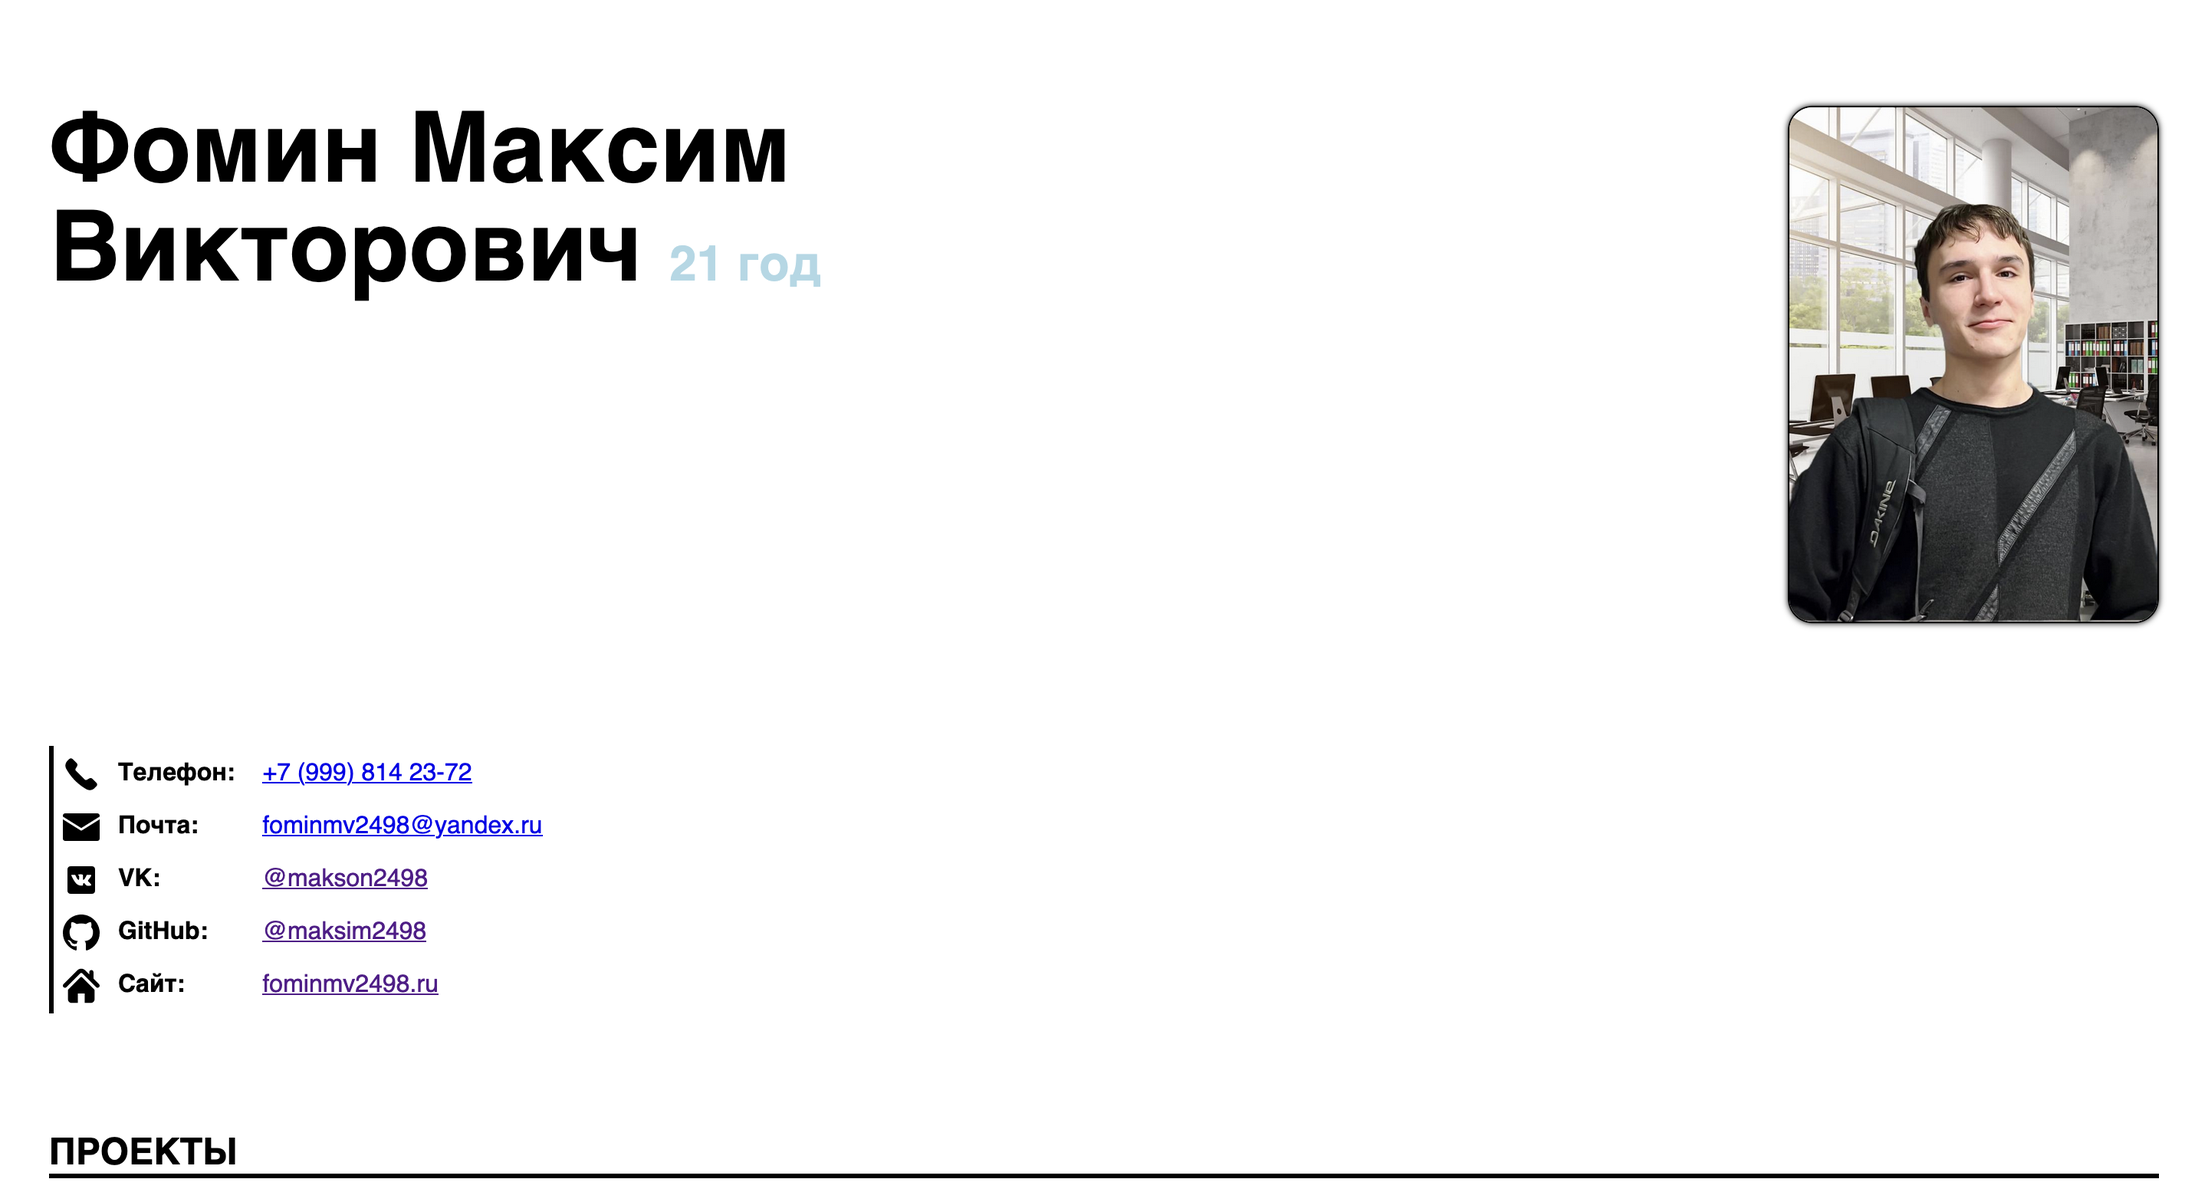
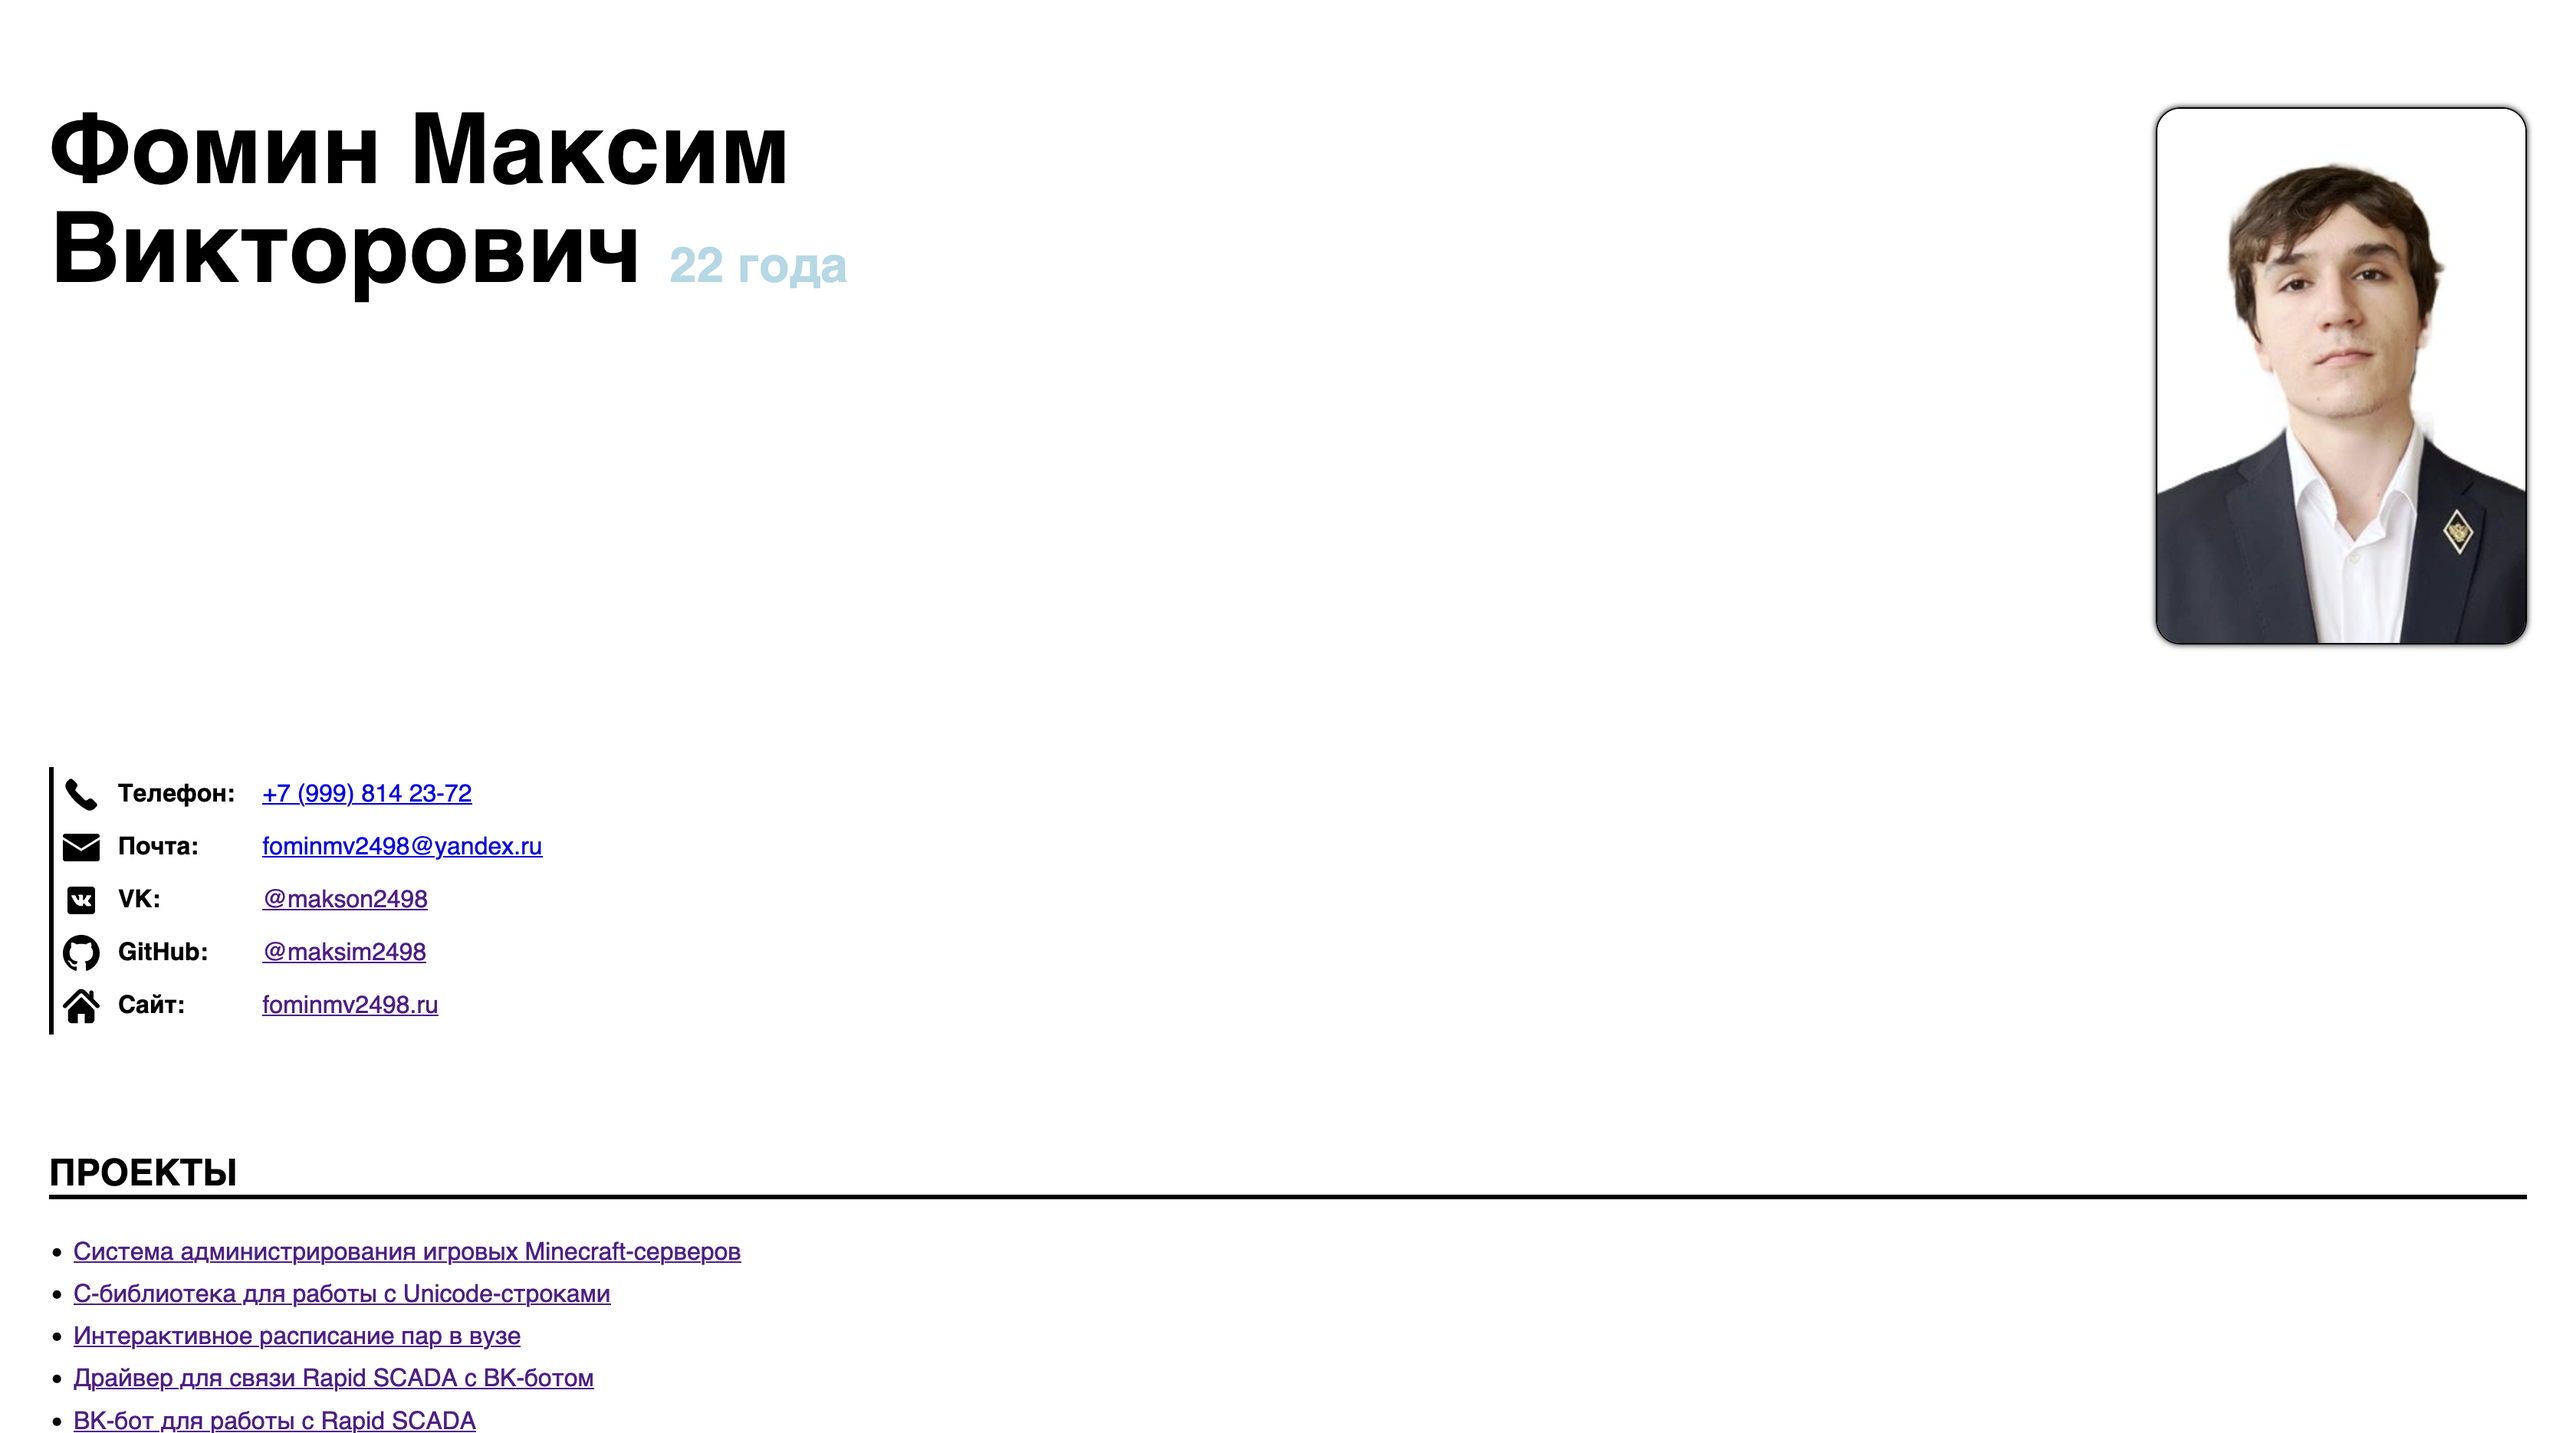
Updated info

Changed region(s): [[0.0, 0.5312, 0.9688, 1.0], [0.7812, 0.0625, 1.0, 0.5312], [0.0, 0.0625, 0.375, 0.25]]

diff --git a/src/body.html b/src/body.html
@@ -1,12 +1,15 @@
 <main>
     <section class="main">
         <h1>Фомин Максим <br> Викторович <span class="age"><span id="age-value"></span> <span id="age-plural"></span></h1>
+
         <div class="my-photo-container">
             <img src="images/me.jpeg" alt="Фотография Фомина Максима Викторовича" class="my-photo">
         </div>
     </section>
+
     <section class="contacts">
         <h2>Контакты</h2>
+
         <table class="contact-list">
             <tbody>
                 <tr class="tel">
@@ -32,16 +35,22 @@
             </tbody>
         </table>
     </section>
+
     <section>
         <h2>Проекты</h2>
+
         <ul>
-            <li><a href="https://moontalk.space" target="_blank">Система администрирования игровых Minecraft-серверов (активный)</a></li>
+            <li><a href="https://moontalk.space" target="_blank">Система администрирования игровых Minecraft-серверов</a></li>
             <li><a href="https://github.com/Maksim2498/ustr" target="_blank">C-библиотека для работы с Unicode-строками</a></li>
             <li><a href="http://sched.uni.fominmv.ru/" target="_blank">Интерактивное расписание пар в вузе</a></li>
+            <li><a href="https://github.com/Maksim2498/rapid-scada-vk-bot-driver" target="_blank">Драйвер для связи Rapid SCADA с ВК-ботом</a></li>
+            <li><a href="https://github.com/Maksim2498/rapid-scada-vk-bot" target="_blank">ВК-бот для работы с Rapid SCADA</a></li>
         </ul>
     </section>
+
     <section>
         <h2>Образование</h2>
+
         <p>
             <strong>РТУ МИРЭА – Российский технологический унивеситет</strong>.
             <br>
@@ -50,54 +59,81 @@
             Год поступления – 2019, год окончания – 2023.
         </p>
     </section>
+
     <section>
         <h2>Навыки</h2>
+
         <p>
             Владею следующими языками программирования, платформами, ОС и фреймворками:
         </p>
+
+        <h3>Intermediate</h3>
+
         <ul>
-            <li><strong>HTML5/CSS3/JavaScript</strong></li>
-            <li>Ассемблеры <strong>x86/x86-64</strong></li>
             <li>Навыки по администрированию основанных на <strong>Debian</strong> Linux-дистрибутивов</li>
+            <li><strong>HTML5/CSS3/JavaScript</strong></li>
+            <li><strong>TypeScript</strong></li>
+            <li><strong>C</strong> (до стандарта 17-ого года включительно)</li>
+            <li><strong>C++</strong> (до стандарта 17-ого года включительно)</li>
+            <li><strong>CMake</strong></li>
+            <li><strong>Webpack</strong></li>
             <li><strong>MySQL</strong></li>
             <li><strong>Node.js</strong></li>
             <li><strong>Express.js</strong></li>
+            <li><strong>Spring Core</strong></li>
+            <li><strong>Spring Boot</strong></li>
+            <li><strong>Java</strong> (до 17-ой версии включительно)</li>
             <li><strong>React.js</strong></li>
-            <li><strong>TypeScript</strong></li>
-            <li><strong>C</strong> (до стандарта 17-ого года)</li>
-            <li><strong>C++</strong> (до стандарта 17-ого года)</li>
-            <li><strong>Java</strong> (до 17-ой версии)</li>
+        </ul>
+
+        <h3>Beginner</h3>
+
+        <ul>
+            <li>Ассемблеры <strong>x86/x86-64</strong></li>
+            <li><strong>Hibernate</strong></li>
+            <li><strong>Spring Web</strong></li>
+            <li><strong>Spring Data</strong></li>
+            <li><strong>Swift</strong></li>
+            <li><strong>Bash</strong></li>
+            <li><strong>C#</strong></li>
+            <li><strong>Python3</strong></li>
         </ul>
     </section>
+
     <section>
         <h2>Знание языка</h2>
+
         <p>
             Английский язык, уровня <strong>intermediate</strong>.
             <br>
             Свободное чтение технической документации и прослушивание технических лекций.
         </p>
     </section>
+
     <section>
         <h2>Обо мне</h2>
+
         <p>
-            На текущий момент в основном веду разработку на платформе <strong>Node.js</strong> на языке <strong>TypeScript</strong>,
-            разрабатывая как font-end на <strong>React.js</strong> так и back-end на <strong>Express.js.</strong> Имею опыт работы с
-            такими системами сборки данной платформы как <strong>Webpack</strong> и <strong>CRA</strong>. Владею навыками взаимодействия
-            с базой данных <strong>MySQL</strong> посредством библиотеки <strong>MySQL2</strong>.
+            На текущий момент веду активно изучаю и веду разработку back-end-а на платформе <strong>Java</strong>, используя стек фреймворков
+            <strong>Spring</strong>. Front-end для своих проектов разрабатываю с помощью связки языка <strong>TypeScript</strong> и фреймворка
+            <strong>React.js</strong>.
         </p>
+
         <p>
             В качестве production-сервера для своих проектов использую <strong>Debian 11</strong> в связке c <strong>Nginx</strong>
             в качестве реверсивного прокси-сервера. Имею опыт администрирования указанного выше Linux-дистрибутива и производного
             от него <strong>Ubuntu</strong>.
         </p>
+
         <p>
             Помимо вышеперечисленных технологий имею опыт работы с системами сборки <strong>CMake</strong> для проектов на <strong>C/C++</strong>,
-            Maven для проектов на <strong>Java</strong>, навыки базовой автоматизации с использованием <strong>Python</strong>,
+            <strong>Maven</strong> для проектов на <strong>Java</strong>, навыки базовой автоматизации с использованием <strong>Python</strong>,
             <strong>Batch</strong> и <strong>Bash</strong> скриптов. Также имею скромный опыт в разработке <strong>iOS</strong>-приложений
             на <strong>Swift</strong>.
         </p>
     </section>
 </main>
+
 <footer>
     Код данной страницы доступен на <a href="https://github.com/Maksim2498/resume" target="_blank">GitHub</a>.
 </footer>

diff --git a/README.md b/README.md
@@ -31,4 +31,4 @@ npm run build
 
 ## Как это выглядит?
 
-![Screenshot](/images/Screenshot.png)
+![Screenshot](/images/screenshot.png)
